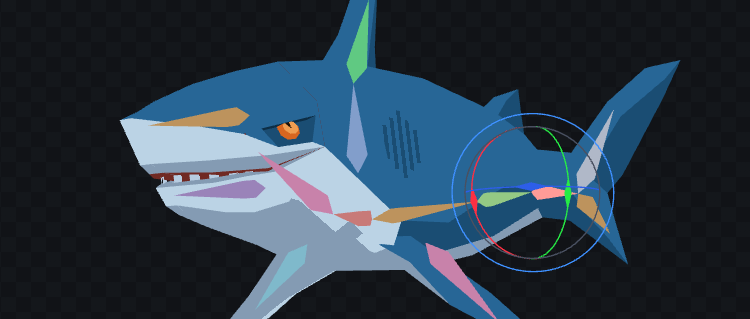
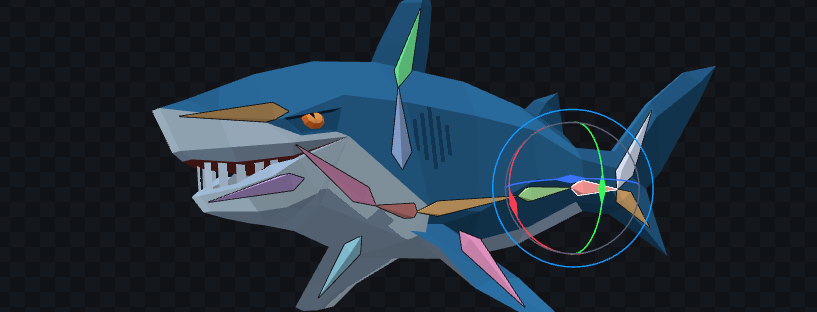
Armature bone outlines

diff --git a/js/outliner/armature_bone.ts b/js/outliner/armature_bone.ts
@@ -371,6 +371,20 @@ new NodePreviewController(ArmatureBone, {
 			0,1,0, r,m,r,  r,m,-r,
 			-r,m,r, 0,1,0, -r,m,-r,
 		];
+		let b = -0.003; let t = 1.007;
+		let line_vertices = [
+			0,b,0,r,m,r,
+			0,t,0,-r,m,r,
+			0,b,0,r,m,-r,
+			0,t,0,-r,m,-r,
+			-r,m,r,r,m,r,
+			r,m,-r,-r,m,-r,
+			0,b,0,
+		];
+		for (let i = 0; i < line_vertices.length; i += 3) {
+			line_vertices[i+0] *= 1.02;
+			line_vertices[i+2] *= 1.02;
+		}
 		let normals = [
 			0.0,-0.5,0.4,
 			0.0,-0.5,-0.4,
@@ -402,6 +416,18 @@ new NodePreviewController(ArmatureBone, {
 		mesh.isElement = true;
 		object_3d.add(mesh);
 
+		let line_geometry = new THREE.BufferGeometry();
+		line_geometry.setAttribute( 'position', new THREE.Float32BufferAttribute( line_vertices, 3 ) );
+		let line_material = new THREE.LineBasicMaterial({
+			color: 0x111111,
+			depthTest: false,
+			depthWrite: false,
+			transparent: true,
+		});
+		let outline = new THREE.Line(line_geometry, line_material);
+		outline.renderOrder = 19;
+		mesh.add(outline)
+
 
 		object_3d.no_export = true;
 		object_3d.fix_position = new THREE.Vector3();
@@ -424,7 +450,7 @@ new NodePreviewController(ArmatureBone, {
 		(element.mesh.children[0] as THREE.Mesh).geometry.setAttribute('color', new THREE.Float32BufferAttribute(color_array, 3));
 		let wireframe = Toolbox.selected.id == 'weight_brush' && Project.view_mode != 'weighted_bone_colors';
 		// @ts-ignore
-		ArmatureBone.preview_controller.material.wireframe = ArmatureBone.preview_controller.material_selected.wireframe = wireframe;
+		ArmatureBone.preview_controller.material.opacity = wireframe ? 0.3 : 1;
 	},
 	updateTransform(element: ArmatureBone) {
 		let bone = element.scene_object as FakeObjectType & THREE.Bone;
@@ -486,6 +512,8 @@ new NodePreviewController(ArmatureBone, {
 		let material = element.selected ? this.material_selected : this.material;
 		let preview_mesh = element.scene_object.children[0] as THREE.Mesh;
 		preview_mesh.material = material;
+		let outline = preview_mesh.children[0] as THREE.Line;
+		(outline.material as THREE.LineBasicMaterial).color.set(element.selected ? 0xffffff : 0x111111);
 	}
 })
 
